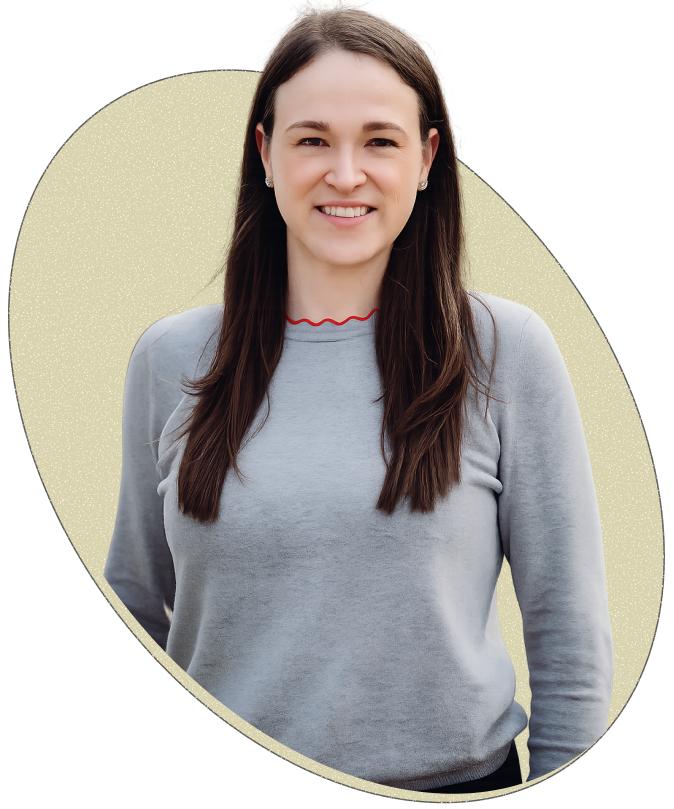
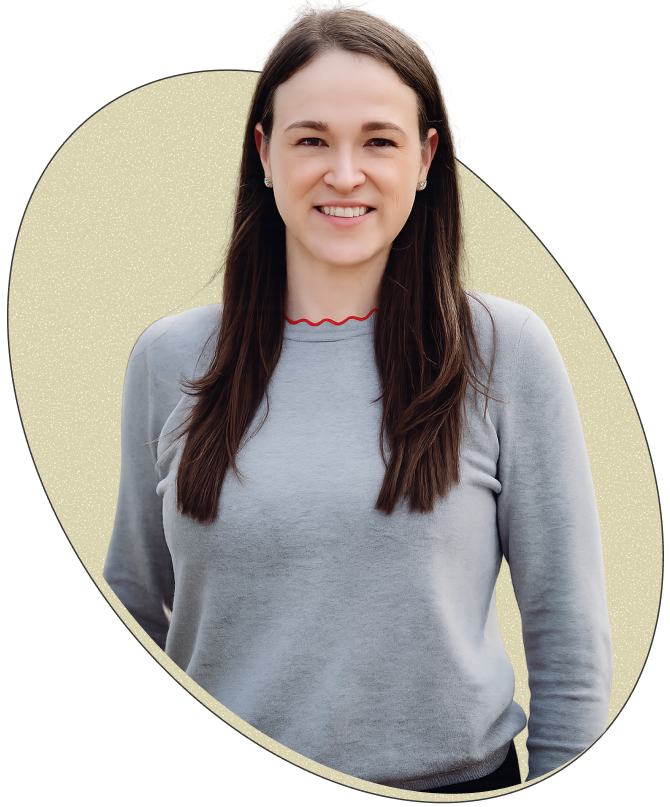
new asset for emily and fixing years of experience container

diff --git a/src/index.html b/src/index.html
@@ -143,14 +143,14 @@
             </p>
             
             <div class=" mt-6 lg:mt-8">
-              <a href="#" class="flex items-center gap-3 font-work-sans font-semibold text-brand-orange text-lg lg:text-2xl">
+              <a href="#" class="flex items-center gap-3 font-work-sans font-medium text-brand-orange text-lg lg:text-2xl">
                 My Philosophy &amp; Methods
                 <img src="assets/images/arrow.svg" alt="" class="w-2 h-3 lg:w-[9px] lg:h-4" />
               </a>
             </div>
             
             <a href="#" class="inline-block bg-brand-orange border border-text-dark rounded-[29px] lg:rounded-[35.5px] px-8 lg:px-8 py-3 lg:py-5 mt-6 lg:mt-8">
-              <span class="font-work-sans font-semibold text-white text-xl lg:text-[28px]">CONTACT ME</span>
+              <span class="font-work-sans font-medium text-white text-xl lg:text-[28px]">CONTACT ME</span>
             </a>
           </div>
           
@@ -161,10 +161,10 @@
       </div>
     </section>
     
-    <section class="bg-brand-blue border-y border-text-dark py-2 lg:py-3">
+    <section class="bg-brand-blue border-y border-text-dark">
       <div class="text-center">
-        <span class="font-archivo-semi-expanded font-bold text-text-dark text-sm lg:text-xl">12+</span>
-        <span class="font-archivo-semi-expanded font-medium text-text-dark text-sm lg:text-base lg:text-lg">  YEARS OF EXPERIENCE</span>
+        <span class="font-archivo-semi-expanded font-bold text-text-dark text-base opacity-80">12+</span>
+        <span class="font-archivo-semi-expanded font-medium text-text-dark text-base opacity-60">  YEARS OF EXPERIENCE</span>
       </div>
     </section>
     
